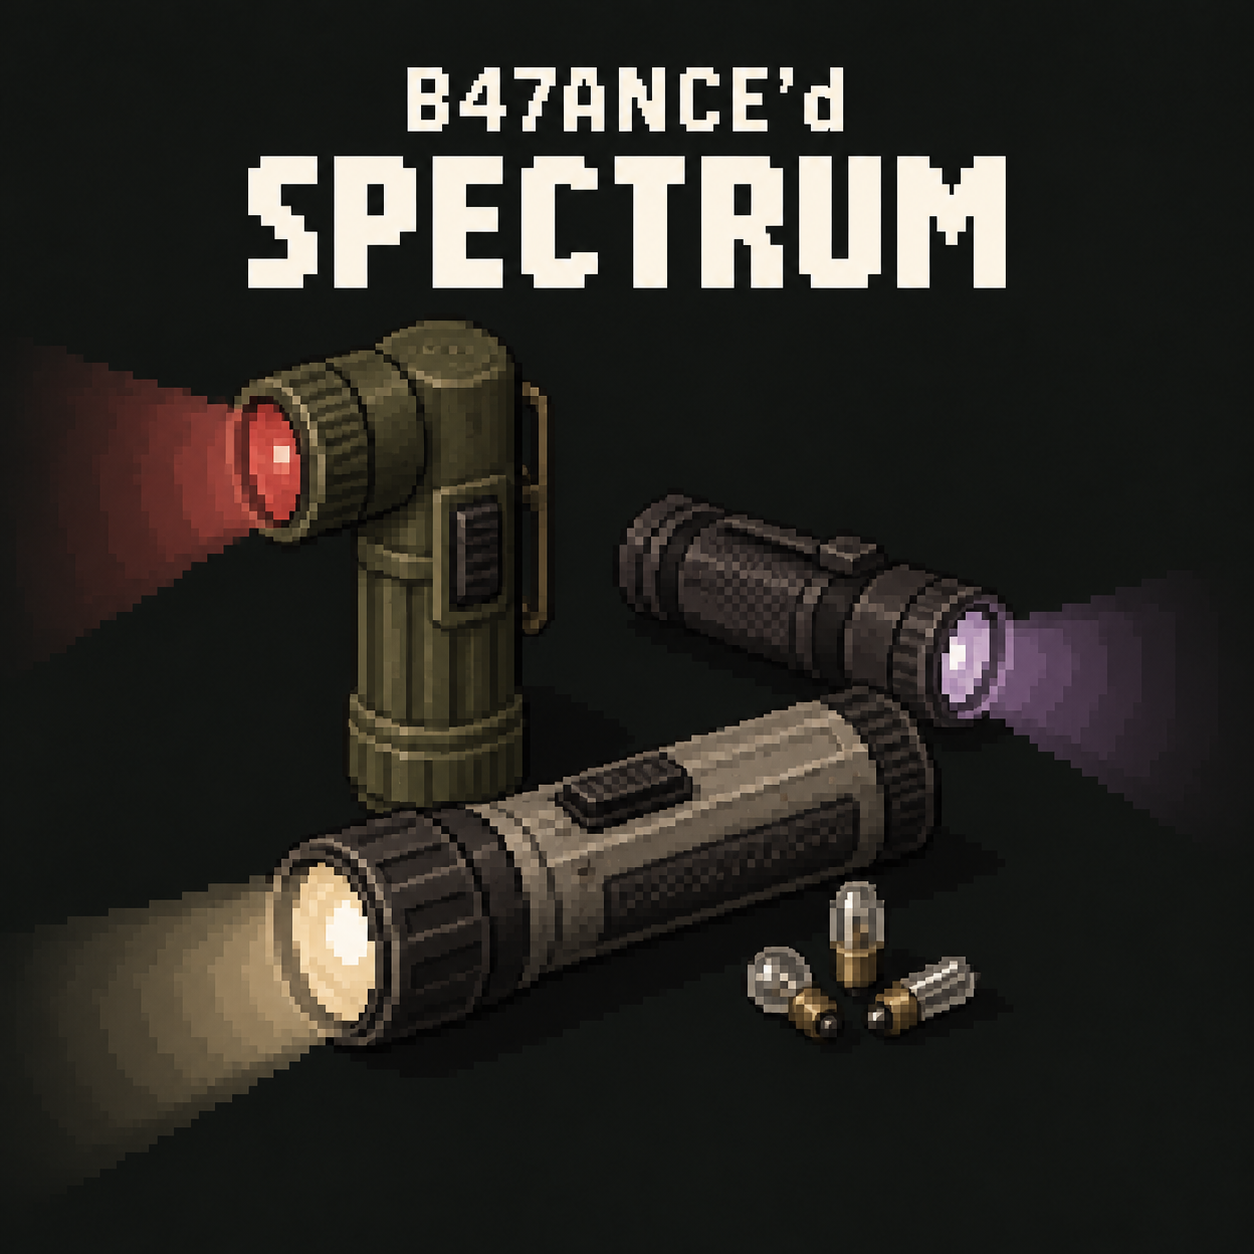
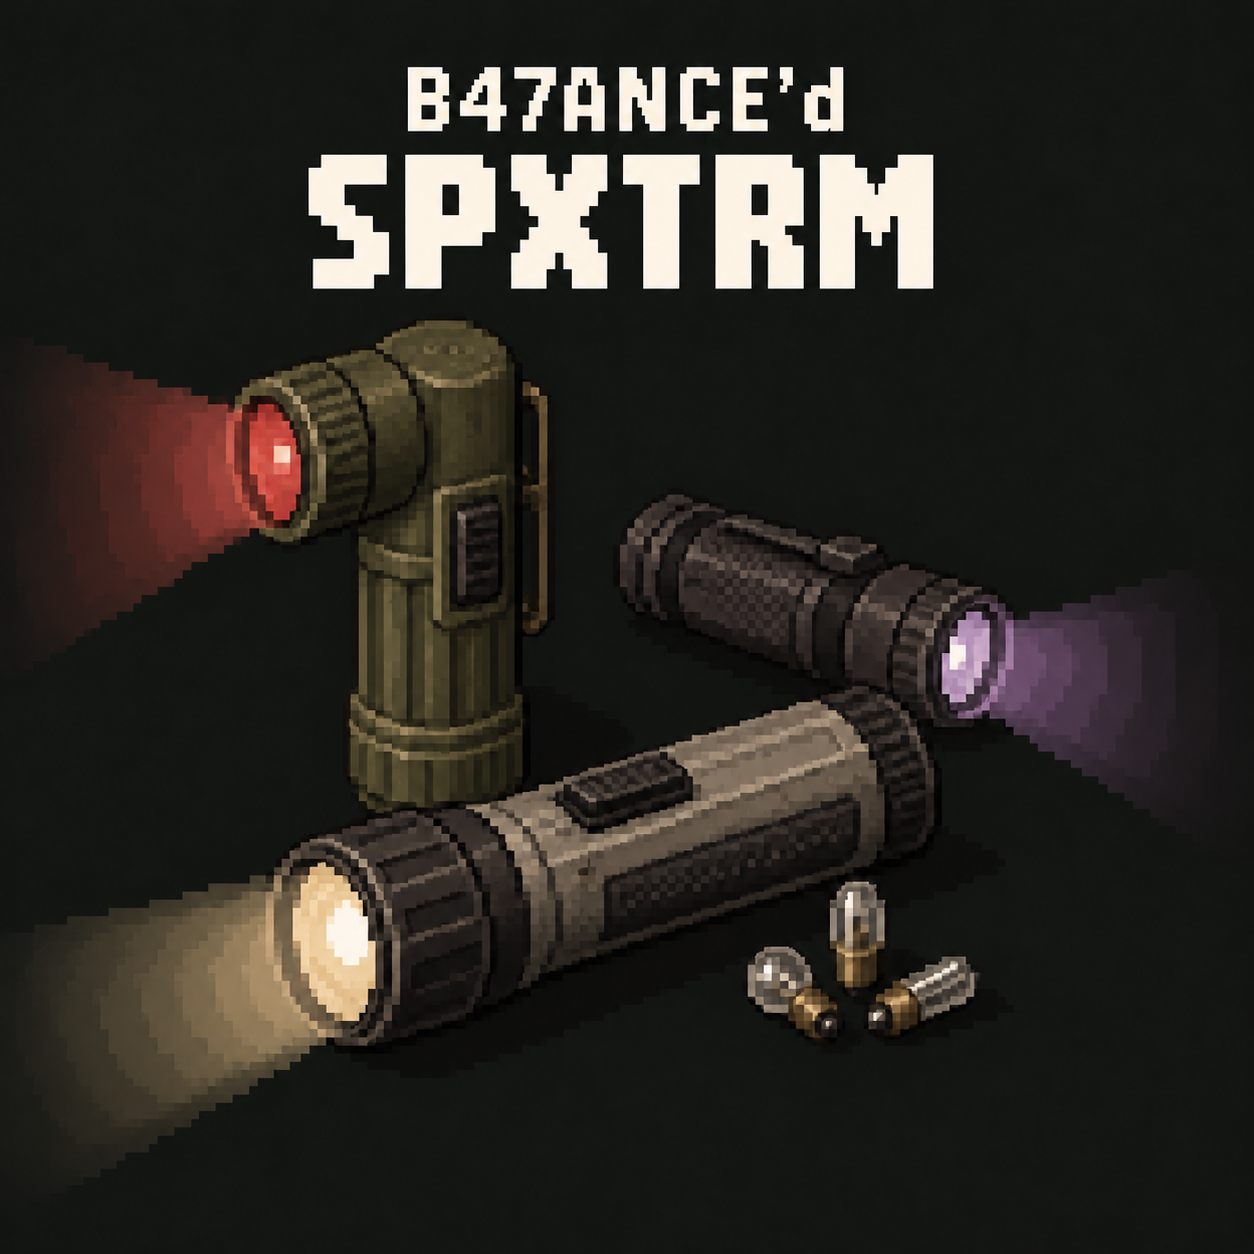
Update SPXTRM thumbnail artwork in 0.30.1

diff --git a/docs/VALIDATION.md b/docs/VALIDATION.md
@@ -1,71 +1,42 @@
-# SPXTRM feature-pass validation
+# SPXTRM thumbnail validation
 
-Project Version: 0.30.0
+Project Version: 0.30.1
 
-2026-10-16 (America/Phoenix). Base 5daab92e901c2f703c238f593d46c1dc3ef8907f (0.29.0).
-Branch feature/spectrum-feature-completion, stacked on feature/spectrum-notifications.
-Explicit pre-1.0 MINOR activation-ID transition plus additive features. Existing
-Lua/save/item/sandbox/protocol identifiers remain stable; enabled-mod lists must
-change to B47ANCEDSPXTRM. Prior validation is exact in validation/0.29.0-audit.md.
+2026-10-17 (America/Phoenix). Base b57577372bf2a9004a05e1d224316ff67efff3ce,
+public main. PATCH artwork-only change; gameplay/API/save/activation contracts
+remain unchanged. VERSION and declared current mirrors are synchronized.
 
-[TESTED, offline Windows / host Lua 5.4] 54 regression files and 59 Lua 5.1
-source/template syntax files PASS. Canonical versions, identity, owned require
-case, Lua-only payload, 29-language fallback/schema sets, disposable Python
-preflight and credential/path checks PASS. New coverage tests calibrated model
-registration/copies/readback/rollback/sync recovery; material completeness/bands;
-three specialist devices/replacement restrictions/loot idempotence; timed UVC
-authority/reach/power loss/repeated callbacks; canonical import identity and
-bounded read-only treatment receipts. These use native object stubs, not PZ.
+[TESTED, offline Windows] Supplied PNG signature, every chunk CRC, dimensions and
+complete file structure pass. Authoring source, preview and mod thumbnail match
+the supplied file byte-for-byte by SHA-256; the game icon hash is unchanged.
+See ARTWORK.md for exact dimensions, byte count and provenance.
 
-[TESTED, offline] Actual Power API probe includes specialist profiles and PASS.
-Actual consumer API slices PASS for Nightfall aliases, Medical treatment/replay,
-Water quality gates/commit/rollback and Farming unchanged observations/batches.
-Health Care isolated 0.11.0 tests cover actual Spectrum interrupted-commit
-receipt recovery. Exact selected source hashes, HEAD/dirty state and preflight
-are recorded in validation/0.30.0-*.json. Dirty/concurrently changing dependency
-snapshots are not pinned clean pairings. Full native mod bootstraps are NOT TESTED.
-
-[VERIFIED, installed source] Steam build 25485521; full engine SemVer UNKNOWN.
-Prior vanilla yaw getter/setter evidence remains current by source hash. New
-device fields/native asset references were checked against generated item/model
-definitions; cold-pack consumption/native complete follows ISApplyBandage and
-the existing Health Care native recovery contract. SuburbsDistributions registers
-OnPreDistributionMerge; MedicalStorageTools/GardenStoreTools are actual lists.
-Source inspection does not prove native parsing, timing, rendering or transport.
-No game source/assets/classes are copied or executed.
-
-[VERIFIED, history] Owner thumbnail/icon bytes remain unchanged after the authoring
-root move. Spectrum lettering in supplied artwork is retained. Historical Contents,
-packages, upload state, validation/changenotes and Water/Farming source are unchanged.
-GitHub repository ID 1421935901 remains public, now B47ANCE/B47ANCEDSPXTRM. Four
-developer workspace path references were updated; installed managed settings and
-credentials were untouched. Health Care artwork checkout was not edited. Nightfall
-reconciled to public main containing effigy and audit/CI before the dependency change.
-
-Commands (bundled Python 3.12 and requirements-dev.txt):
+[TESTED, offline Windows] Commands (bundled Python 3.12):
 
 ```text
 python scripts/check_versions.py
 python scripts/validate.py
-python scripts/check_power_integration.py --dependency-root ../B47ANCEDPower
-python scripts/check_consumer_integrations.py --dependencies .. --medical-root ../.worktrees/healthcare-spectrum-treatment
-python scripts/check_test_readiness.py --dependencies .. --profile core
-python scripts/check_test_readiness.py --dependencies .. --profile nightfall --medical-root ../.worktrees/healthcare-spectrum-treatment
-python scripts/check_test_readiness.py --dependencies .. --profile consumers --medical-root ../.worktrees/healthcare-spectrum-treatment
 python scripts/check_repository.py --staged
 git diff --check
 git diff --cached --check
 ```
 
-Startup/precommit: Test-PZRepositoryFreshness.ps1 against each explicit repository.
-Exact commit/push/CI results belong to the iteration report, not this precommit record.
+Full existing validation passes: 54 host-Lua regression files, 59 Lua 5.1 syntax
+files and disposable Python preflight tests; version, identity, localization,
+Lua-only, owned-require case and credential/path checks pass. The only Lua change
+is the public project-version constant. No new gameplay regression test is needed.
+The exact prior feature-pass report is preserved at validation/0.30.0-feature-pass.md;
+its dependency/source observations retain their original tested version/environment.
 
-[RUNTIME GATE] Native built-in model calibration, blood/FBO/depth and additional
-overlay assets remain incomplete. Crop growth is deferred while Farming stays
-unchanged. Native shared-action timing/reference serialization, real items/fluids,
-renderer/depth, controllers, save/reload, joins/restarts and dedicated acceptance
-are NOT TESTED. G7 BLOCKED / NOT TESTED; stable G8 BLOCKED. Current Knowledge source
-also reports an upstream dedicated-storage blocker; source-contract PASS does not
-override it. No packaging, deployment, game/server launch or Workshop upload.
+Feature descriptions and integration contracts are unchanged; no new feature
+catalog/overview adoption is part of this artwork patch. Shared catalog/settings
+and consumer repositories were not modified.
 
-Final review: the native UVC action validity callback checks only configuration, actor/target placement and reach. It performs no optical/world scan; explicit menu preview and the authoritative Water commit sample exposure. A regression invokes validity 1,000 times with zero exposure scans. No native timing or performance claim is inferred from this host test.
+Freshness: Test-PZRepositoryFreshness.ps1 against this explicit repository before
+edits and commit; current main base, no unfinished Git operations. Staged/working
+changes are this bounded thumbnail/version/documentation iteration only.
+
+[RUNTIME GATE] In-game thumbnail display and Workshop upload acceptance are NOT
+TESTED. Prior native presentation, consumer/runtime, dedicated joins/restarts and
+save/reload gates remain unresolved. G7 BLOCKED / NOT TESTED; stable G8 BLOCKED.
+No packaging, deployment, game/server launch or Workshop upload.

diff --git a/docs/validation/0.30.0-feature-pass.md b/docs/validation/0.30.0-feature-pass.md
@@ -1,0 +1,71 @@
+# SPXTRM feature-pass validation
+
+Project Version: 0.30.0
+
+2026-10-16 (America/Phoenix). Base 5daab92e901c2f703c238f593d46c1dc3ef8907f (0.29.0).
+Branch feature/spectrum-feature-completion, stacked on feature/spectrum-notifications.
+Explicit pre-1.0 MINOR activation-ID transition plus additive features. Existing
+Lua/save/item/sandbox/protocol identifiers remain stable; enabled-mod lists must
+change to B47ANCEDSPXTRM. Prior validation is exact in validation/0.29.0-audit.md.
+
+[TESTED, offline Windows / host Lua 5.4] 54 regression files and 59 Lua 5.1
+source/template syntax files PASS. Canonical versions, identity, owned require
+case, Lua-only payload, 29-language fallback/schema sets, disposable Python
+preflight and credential/path checks PASS. New coverage tests calibrated model
+registration/copies/readback/rollback/sync recovery; material completeness/bands;
+three specialist devices/replacement restrictions/loot idempotence; timed UVC
+authority/reach/power loss/repeated callbacks; canonical import identity and
+bounded read-only treatment receipts. These use native object stubs, not PZ.
+
+[TESTED, offline] Actual Power API probe includes specialist profiles and PASS.
+Actual consumer API slices PASS for Nightfall aliases, Medical treatment/replay,
+Water quality gates/commit/rollback and Farming unchanged observations/batches.
+Health Care isolated 0.11.0 tests cover actual Spectrum interrupted-commit
+receipt recovery. Exact selected source hashes, HEAD/dirty state and preflight
+are recorded in validation/0.30.0-*.json. Dirty/concurrently changing dependency
+snapshots are not pinned clean pairings. Full native mod bootstraps are NOT TESTED.
+
+[VERIFIED, installed source] Steam build 25485521; full engine SemVer UNKNOWN.
+Prior vanilla yaw getter/setter evidence remains current by source hash. New
+device fields/native asset references were checked against generated item/model
+definitions; cold-pack consumption/native complete follows ISApplyBandage and
+the existing Health Care native recovery contract. SuburbsDistributions registers
+OnPreDistributionMerge; MedicalStorageTools/GardenStoreTools are actual lists.
+Source inspection does not prove native parsing, timing, rendering or transport.
+No game source/assets/classes are copied or executed.
+
+[VERIFIED, history] Owner thumbnail/icon bytes remain unchanged after the authoring
+root move. Spectrum lettering in supplied artwork is retained. Historical Contents,
+packages, upload state, validation/changenotes and Water/Farming source are unchanged.
+GitHub repository ID 1421935901 remains public, now B47ANCE/B47ANCEDSPXTRM. Four
+developer workspace path references were updated; installed managed settings and
+credentials were untouched. Health Care artwork checkout was not edited. Nightfall
+reconciled to public main containing effigy and audit/CI before the dependency change.
+
+Commands (bundled Python 3.12 and requirements-dev.txt):
+
+```text
+python scripts/check_versions.py
+python scripts/validate.py
+python scripts/check_power_integration.py --dependency-root ../B47ANCEDPower
+python scripts/check_consumer_integrations.py --dependencies .. --medical-root ../.worktrees/healthcare-spectrum-treatment
+python scripts/check_test_readiness.py --dependencies .. --profile core
+python scripts/check_test_readiness.py --dependencies .. --profile nightfall --medical-root ../.worktrees/healthcare-spectrum-treatment
+python scripts/check_test_readiness.py --dependencies .. --profile consumers --medical-root ../.worktrees/healthcare-spectrum-treatment
+python scripts/check_repository.py --staged
+git diff --check
+git diff --cached --check
+```
+
+Startup/precommit: Test-PZRepositoryFreshness.ps1 against each explicit repository.
+Exact commit/push/CI results belong to the iteration report, not this precommit record.
+
+[RUNTIME GATE] Native built-in model calibration, blood/FBO/depth and additional
+overlay assets remain incomplete. Crop growth is deferred while Farming stays
+unchanged. Native shared-action timing/reference serialization, real items/fluids,
+renderer/depth, controllers, save/reload, joins/restarts and dedicated acceptance
+are NOT TESTED. G7 BLOCKED / NOT TESTED; stable G8 BLOCKED. Current Knowledge source
+also reports an upstream dedicated-storage blocker; source-contract PASS does not
+override it. No packaging, deployment, game/server launch or Workshop upload.
+
+Final review: the native UVC action validity callback checks only configuration, actor/target placement and reach. It performs no optical/world scan; explicit menu preview and the authoritative Water commit sample exposure. A regression invokes validity 1,000 times with zero exposure scans. No native timing or performance claim is inferred from this host test.

diff --git a/docs/ARTWORK.md b/docs/ARTWORK.md
@@ -1,8 +1,8 @@
-# Spectrum thumbnail
+# SPXTRM thumbnail
 
-The owner supplied and explicitly selected this image on 2026-10-16.
-`artwork/spectrum-thumbnail.png` is the authoritative full-resolution PNG.
-The existing project thumbnail and Workshop preview form a matching pair:
+The owner supplied and explicitly selected this replacement image on 2026-10-17.
+`artwork/spectrum-thumbnail.png` remains the authoritative full-resolution PNG;
+the established filename is retained. The text in this image reads SPXTRM.
 
 | Role | File |
 | --- | --- |
@@ -10,16 +10,15 @@ The existing project thumbnail and Workshop preview form a matching pair:
 | Workshop preview | `preview.png` |
 | Existing mod thumbnail/poster reference | `src/B47ANCEDSPXTRM/thumbnail.png` |
 
-All three contain the exact supplied bytes: 1254 x 1254 RGB PNG, 1,559,539 bytes,
[1 lines of base64/hex data omitted]
-No AI regeneration, crop, resize or color conversion was applied. Artwork was
+All three contain the exact supplied bytes: 1254 x 1254 PNG, 1,483,761 bytes,
[1 lines of base64/hex data omitted]
+No regeneration, crop, resize or color conversion was applied. Artwork was
 supplied for project use; no broader license grant is inferred.
 
-The 32 x 32 RGBA game icon at `src/B47ANCEDSPXTRM/42/icon.png` is unchanged.
-The previous preview and thumbnail are recoverable from commit
-`886f97d449de192a778dc241157948b5f9cf2214`, and legacy local packages retain their
-original artwork. The legacy provenance ledger still describes the original
-handoff bytes; it is not a checksum list for newly replaced current artwork.
+The game icon at `src/B47ANCEDSPXTRM/42/icon.png` is unchanged. The previous
+Spectrum-lettered artwork remains recoverable from parent commit
+`b57577372bf2a9004a05e1d224316ff67efff3ce`; older artwork remains in Git history
+and historical local packages. No historical source/package/evidence was replaced.
 
 The build command already reads `preview.png` and `src/B47ANCEDSPXTRM`; no packaging
 script change is needed. No package was generated and no live Workshop metadata

diff --git a/docs/IN_GAME_TEST_HANDOFF.md b/docs/IN_GAME_TEST_HANDOFF.md
@@ -1,6 +1,9 @@
 # SPXTRM development test handoff
 
-Project Version: 0.30.0
+Project Version: 0.30.1
+
+Artwork-only patch; prior source/offline observations retain their originally
+recorded versions. No consumer pairing or PZ runtime evidence was refreshed.
 
 Core Spectrum + B47ANCEDPower, Nightfall and optional-consumer source preflights
 pass against the recorded current checkouts. The earlier medWorks loader mismatch
@@ -114,6 +117,6 @@ reproduction steps, and screenshots for visual failures. Keep private logs and
 player data out of public Git. G7 BLOCKED / NOT TESTED and stable G8 BLOCKED until
 observed dedicated evidence is reviewed. No stable tag or release is implied.
 
-Current 0.30.0 activation ID is B47ANCEDSPXTRM (old Lua/save namespace retained). Enable it with matching Nightfall metadata. Follow docs/FEATURE_PASS_0_30_0.md for specialist devices, UVC timed action, Health Care self-care, native model calibration and remaining blood/growth gates. Previous pinned version probes are historical. No install/game/server launch is automatic.
+Current 0.30.1 activation ID is B47ANCEDSPXTRM (old Lua/save namespace retained). Enable it with matching Nightfall metadata. Follow docs/FEATURE_PASS_0_30_0.md for specialist devices, UVC timed action, Health Care self-care, native model calibration and remaining blood/growth gates. Previous pinned version probes are historical. No install/game/server launch is automatic.
 
 For the new cold-pack action, select the reviewed Health Care 0.11.0 checkout explicitly with --medical-root (this session: ../.worktrees/healthcare-spectrum-treatment). The ordinary sibling artwork checkout is separate; do not overwrite it or treat its older API probe as self-care implementation evidence.

diff --git a/TESTER_HANDOFF.md b/TESTER_HANDOFF.md
@@ -1,4 +1,4 @@
-# B47ANCED SPXTRM 0.30.0 playtester handoff
+# B47ANCED SPXTRM 0.30.1 playtester handoff
 
 Begin only after B47ANCEDPower is reviewed as PASS. Enable only B47ANCEDPower and
 B47ANCED SPXTRM (Mod ID `B47ANCEDSPXTRM`) on a disposable save and run `lightWorksTestStart(true)`.
@@ -39,4 +39,4 @@ operations and separate client/server buses. Follow docs/NATIVE_PRESENTATION_GAT
 for explicit disposable SP yaw previews and restoration; no default mapping or
 production blood redraw is enabled. Mutating local fixture helpers are SP-only.
 
-Current 0.30.0 activation ID is B47ANCEDSPXTRM (old Lua/save namespace retained). Enable it with matching Nightfall metadata. Follow docs/FEATURE_PASS_0_30_0.md for specialist devices, UVC timed action, Health Care self-care, native model calibration and remaining blood/growth gates. Previous pinned version probes are historical. No install/game/server launch is automatic.
+Current 0.30.1 activation ID is B47ANCEDSPXTRM (old Lua/save namespace retained). Enable it with matching Nightfall metadata. Follow docs/FEATURE_PASS_0_30_0.md for specialist devices, UVC timed action, Health Care self-care, native model calibration and remaining blood/growth gates. Previous pinned version probes are historical. No install/game/server launch is automatic.

diff --git a/README.md b/README.md
@@ -2,7 +2,7 @@
 
 B47ANCED SPXTRM is a Lua-only lighting and optical-effects framework for Project Zomboid Build 42.
 
-- Version: `0.30.0`
+- Version: `0.30.1`
 - Mod ID: `B47ANCEDSPXTRM`
 - Author: B47ANCE
 - Minimum game version: `42.20.3`
@@ -77,7 +77,7 @@ Dedicated multiplayer G7 is **BLOCKED / NOT TESTED**. Stable-release G8 is
 **BLOCKED**. Original source/API audits are historical evidence; neither those
 records nor host tests establish current PZ runtime behavior.
 
-Current thumbnail: owner-supplied Spectrum artwork; see [Artwork provenance](docs/ARTWORK.md). The game icon and historical packages are preserved.
+Current thumbnail: owner-supplied SPXTRM artwork; see [Artwork provenance](docs/ARTWORK.md). The game icon and historical packages are preserved.
 
 
 The nine defects audited at `886f97d` are corrected in source with offline

diff --git a/docs/TESTING.md b/docs/TESTING.md
@@ -9,7 +9,7 @@ developer investigation; mocked execution is not an in-game PASS.
 
 1. Run `LWStartReleaseSuite()`. It performs the API, servicing, UV-semantic, and available B47ANCEDPower battery checks, then starts the visual tour.
 2. Inspect each equipped light, enter `PASS` or describe the issue, and continue; every report is written to `console.txt`.
-3. Confirm metadata, version `0.30.0`, B47ANCED SPXTRM sandbox page, and error-free load.
+3. Confirm metadata, version `0.30.1`, B47ANCED SPXTRM sandbox page, and error-free load.
 4. Right-click supported, unsupported, nested, equipped, attached, and weapon-part lights.
 5. Confirm bulb actions share the light's existing submenu and show correct icons.
 6. Install, remove, and replace every bulb with and without required tools; verify no loss or duplication.

diff --git a/docs/REPOSITORY_SETUP.md b/docs/REPOSITORY_SETUP.md
@@ -1,6 +1,6 @@
 # Repository onboarding
 
-Project Version: 0.30.0
+Project Version: 0.30.1
 
 Public repository: https://github.com/B47ANCE/B47ANCEDSPXTRM
 
@@ -57,7 +57,7 @@ visibility alone does not establish a reuse license.
 
 ## Subsequent thumbnail iteration
 
-The owner-supplied Spectrum artwork replaces the current preview/thumbnail pair.
+The owner-supplied SPXTRM artwork replaces the current preview/thumbnail pair.
 The original source/artwork ledger and 0.25.3 validation remain historical; see
 [ARTWORK.md](ARTWORK.md) and [VALIDATION.md](VALIDATION.md) for current provenance
 and evidence. The existing game icon and historical packages are preserved.

diff --git a/CHANGELOG.md b/CHANGELOG.md
@@ -1,5 +1,10 @@
 # Changelog
 
+## [0.30.1] - 2026-10-17
+
+- Replace the thumbnail and Workshop preview with owner-supplied SPXTRM artwork, preserving exact original bytes. Game icon, gameplay, activation IDs and APIs are unchanged.
+- PATCH artwork iteration; offline checks recorded in docs/VALIDATION.md. In-game display and dedicated multiplayer remain NOT TESTED; no package, deployment or upload.
+
 ## [0.30.0] - 2026-10-16
 
 - Pre-1.0 MINOR compatibility transition: activation ID becomes B47ANCEDSPXTRM; existing Lua/save/item/sandbox/protocol identifiers remain stable. Public repository/source folder renamed with original history/Workshop item retained.

diff --git a/docs/CONSUMER_INTEGRATIONS.md b/docs/CONSUMER_INTEGRATIONS.md
@@ -1,6 +1,9 @@
 # Spectrum consumer contracts
 
-Project Version: 0.30.0
+Project Version: 0.30.1
+
+Artwork-only patch; prior source/offline observations retain their originally
+recorded versions. No consumer pairing or PZ runtime evidence was refreshed.
 
 This MINOR iteration adds optional API capabilities and four sandbox settings.
 Technical Mod ID, namespace, Workshop item and existing save schemas stay intact.

diff --git a/docs/NATIVE_PRESENTATION_GATES.md b/docs/NATIVE_PRESENTATION_GATES.md
@@ -1,6 +1,9 @@
 # Native presentation evidence and runtime gates
 
-Project Version: 0.30.0
+Project Version: 0.30.1
+
+Artwork-only patch; prior source/offline observations retain their originally
+recorded versions. No consumer pairing or PZ runtime evidence was refreshed.
 Steam build: 25485521. Full engine version: UNKNOWN.
 
 ## World-model yaw: source route verified, alignment untested

diff --git a/docs/CONSUMER_NOTIFICATIONS.md b/docs/CONSUMER_NOTIFICATIONS.md
@@ -1,6 +1,9 @@
 # Spectrum consumer notification contract
 
-Project Version: 0.30.0
+Project Version: 0.30.1
+
+Artwork-only patch; prior source/offline observations retain their originally
+recorded versions. No consumer pairing or PZ runtime evidence was refreshed.
 Contract Version: 1
 
 Notifications are bounded, synchronous, process-local advisory invalidations.
